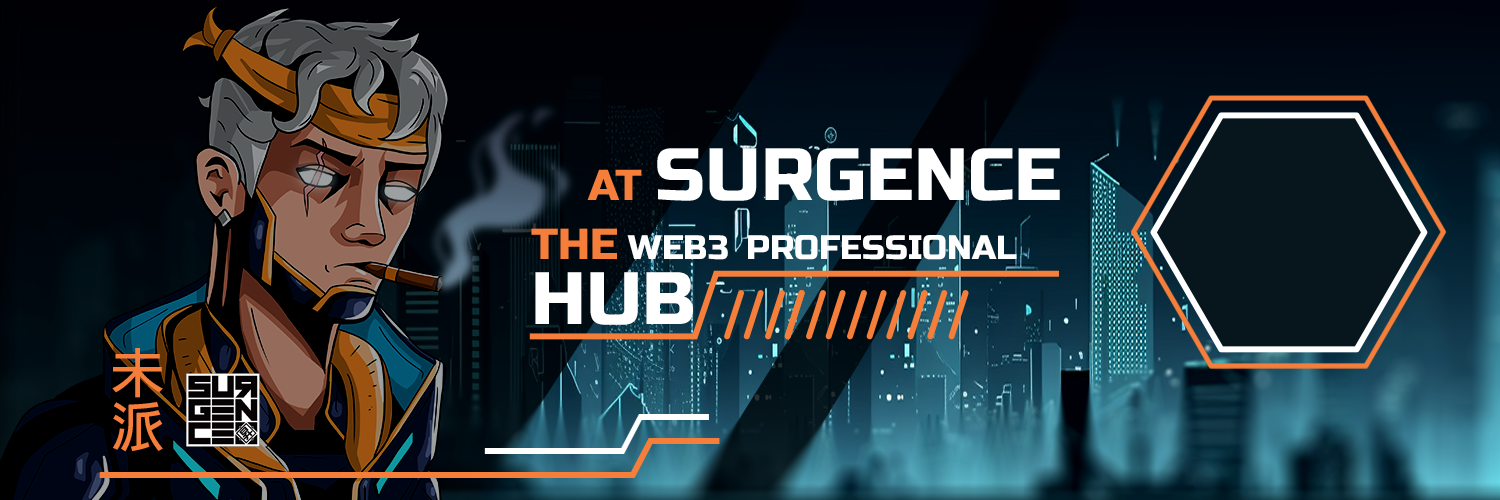
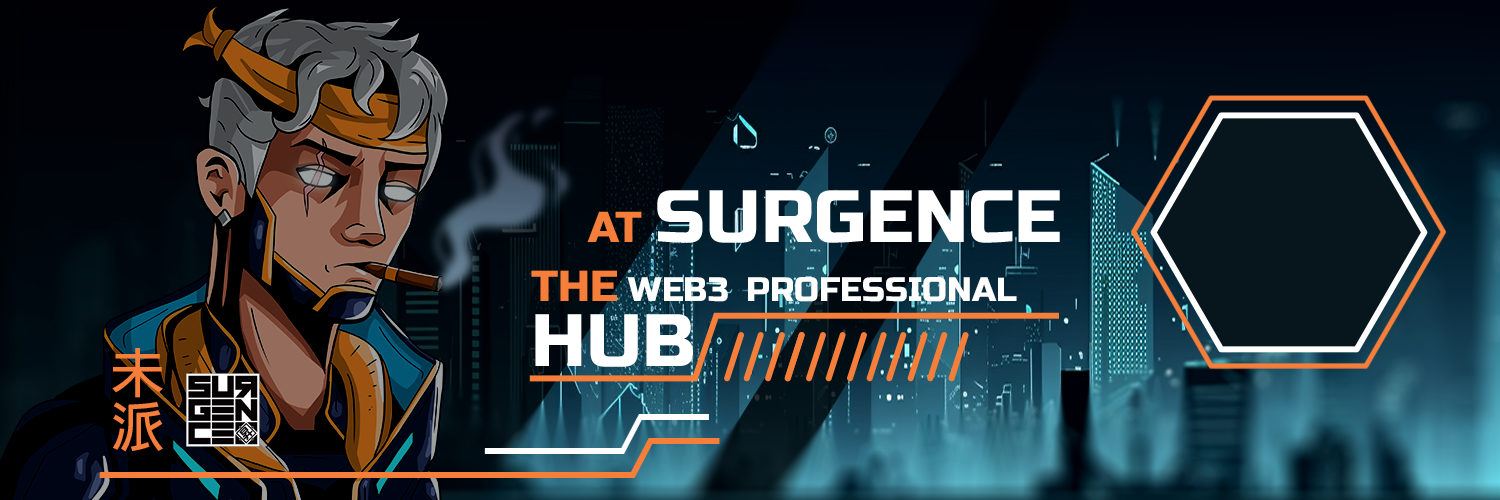
ADD: Allies and Team

Changed region(s): [[0.3373, 0.27, 0.7053, 0.78]]

diff --git a/index.ts b/index.ts
@@ -23,6 +23,8 @@ client.on("interactionCreate", async (interaction) => {
         const member = interaction.guild.members.cache.get(user.id);
         const roles = member._roles;
 
+        let team = interaction.guild.roles.cache.find((r) => r.name.toLowerCase() === "key operatives");
+        let allies = interaction.guild.roles.cache.find((r) => r.name.toLowerCase() === "allies");
         let battalionLeader = interaction.guild.roles.cache.find((r) => r.name.toLowerCase() === "battalion leader");
         let surgenceListed = interaction.guild.roles.cache.find((r) => r.name.toLowerCase() === "surgence listed");
         let specialist = interaction.guild.roles.cache.find((r) => r.name.toLowerCase() === "specialist");
@@ -30,10 +32,12 @@ client.on("interactionCreate", async (interaction) => {
 
         try {
             // Check if roles are defined
-            if (battalionLeader == undefined || surgenceListed == undefined || specialist == undefined || agent == undefined) {
+            if (team == undefined || allies == undefined || battalionLeader == undefined || surgenceListed == undefined || specialist == undefined || agent == undefined) {
                 await interaction.reply({ content: "Some promotion roles aren't defined!", ephemeral: true });
             } else {
                 const avatar = "https://cdn.discordapp.com/avatars/" + user.id + "/" + user.avatar + ".png?size=256";
+                const isTeam = roles.find((role) => role === team.id);
+                const isAllies = roles.find((role) => role === allies.id);
                 const isBattalionLeader = roles.find((role) => role === battalionLeader.id);
                 const isSurgenceListed = roles.find((role) => role === surgenceListed.id);
                 const isSpecialist = roles.find((role) => role === specialist.id);
@@ -43,7 +47,50 @@ client.on("interactionCreate", async (interaction) => {
                 // Build the Tweet-Button
                 const row = new ActionRowBuilder().addComponents(new ButtonBuilder().setLabel("Tweet").setStyle(ButtonStyle.Link).setURL("https://twitter.com/compose/tweet"));
 
-                if (isBattalionLeader) {
+                if (isTeam && interaction.options._subcommand == "banner") {
+                    // Check if Battalion Leader
+                    await interaction.deferReply();
+                    const attachment = await getBannerAttachment(avatar, user, "Team", imageName);
+
+                    const embed = {
+                        color: 0xdfcc21,
+                        image: {
+                            url: "attachment://" + imageName,
+                        },
+                    };
+
+                    console.log(user.username + "#" + user.discriminator + " claimed the Team promotion image!");
+                    await interaction.editReply({
+                        content: "Congratulation <@" + user.id + ">, this is your banner" + "! \n\nLet your network know about your journey here in Surgence.",
+                        embeds: [embed],
+                        files: [attachment],
+                        components: [row],
+                    });
+                } else if (isAllies) {
+                    // Check if Battalion Leader
+                    await interaction.deferReply();
+                    const attachment = interaction.options._subcommand == "card" ? await getIdCardAttachment(avatar, user, 0, imageName) : await getBannerAttachment(avatar, user, "Allies", imageName);
+
+                    const embed = {
+                        color: 0xbf4bce,
+                        image: {
+                            url: "attachment://" + imageName,
+                        },
+                    };
+
+                    console.log(user.username + "#" + user.discriminator + " claimed the Allies promotion image!");
+                    await interaction.editReply({
+                        content:
+                            "Congratulation <@" +
+                            user.id +
+                            ">, this is your " +
+                            (interaction.options._subcommand == "card" ? "id card" : "banner") +
+                            "! \n\nLet your network know about your journey here in Surgence.",
+                        embeds: [embed],
+                        files: [attachment],
+                        components: [row],
+                    });
+                } else if (isBattalionLeader) {
                     // Check if Battalion Leader
                     await interaction.deferReply();
                     const attachment =

diff --git a/template-banner-generation.ts b/template-banner-generation.ts
@@ -62,7 +62,19 @@ export function getBannerTemplate(avatar: string, discordId: string, role: strin
                     margin-top: 5px;
                     left: 1119px;
                     width: 355px;
-                    color: ${role == "Battalion Leader" ? "#3597c7" : role == "Surgence Listed" ? "#4abbbb" : role == "Specialist" ? "#fac088" : "#e26d87"};
+                    color: ${
+                        role == "Team"
+                            ? "#DFCC21"
+                            : role == "Allies"
+                            ? "#BF4BCE"
+                            : role == "Battalion Leader"
+                            ? "#3597c7"
+                            : role == "Surgence Listed"
+                            ? "#4abbbb"
+                            : role == "Specialist"
+                            ? "#fac088"
+                            : "#e26d87"
+                    };
                     text-transform: uppercase;
                     text-align: center;
                     overflow-wrap: break-word;
@@ -70,7 +82,7 @@ export function getBannerTemplate(avatar: string, discordId: string, role: strin
                 .discordRole {
                     font-size: 54px;
                     position: absolute;
-                    top: 93px;
+                    top: 130px;
                     left: 541px;
                     width: 550px;
                     text-transform: uppercase;

diff --git a/template-id-card-generation.ts b/template-id-card-generation.ts
@@ -18,7 +18,9 @@ export function getIdCardTemplate(avatar: string, discordId: string, imageId: nu
                     width: 100%;
                     height: 100%;
                     background-image: url(${
-                        imageId == 1
+                        imageId == 0
+                            ? "https://raw.githubusercontent.com/animot6792/promotion-bot/main/images/allies.png"
+                            : imageId == 1
                             ? "https://raw.githubusercontent.com/animot6792/promotion-bot/main/images/battalion-leader.png"
                             : imageId == 2
                             ? "https://raw.githubusercontent.com/animot6792/promotion-bot/main/images/surgence-listed.png"
